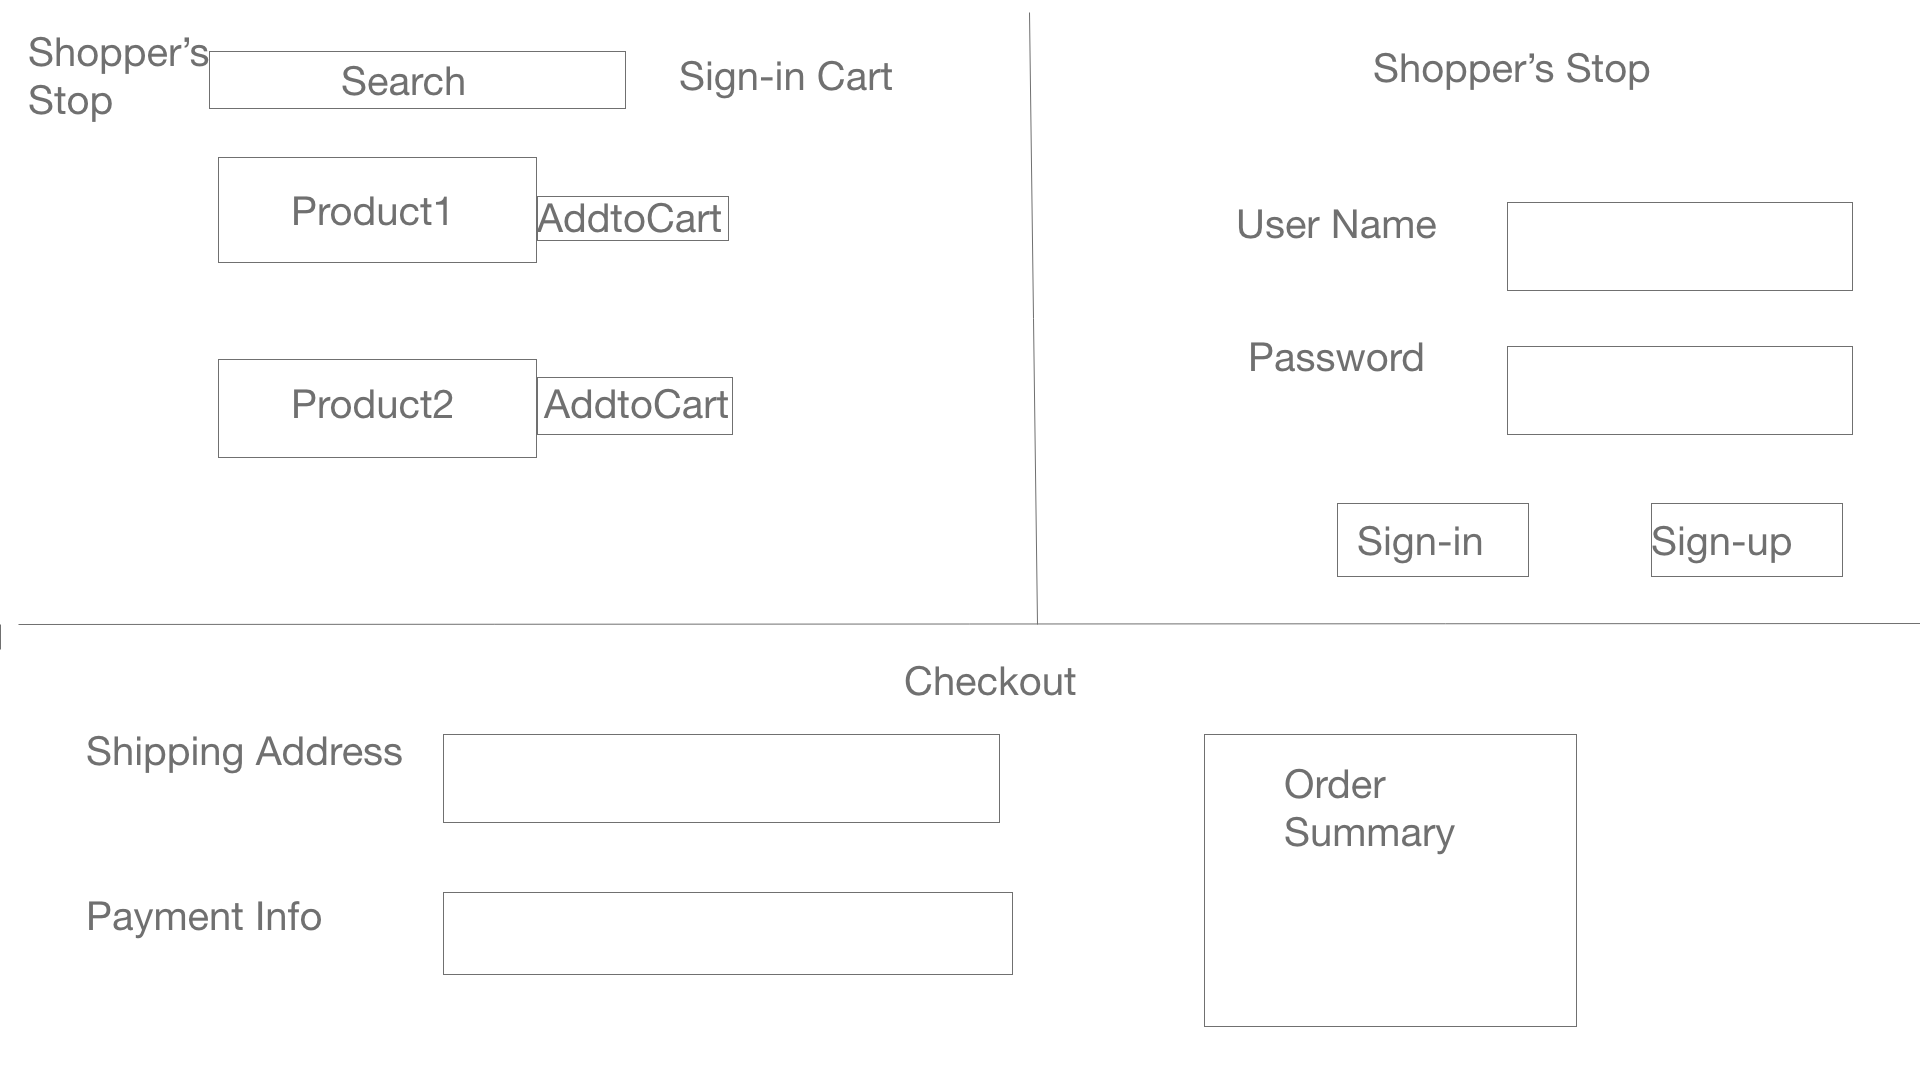
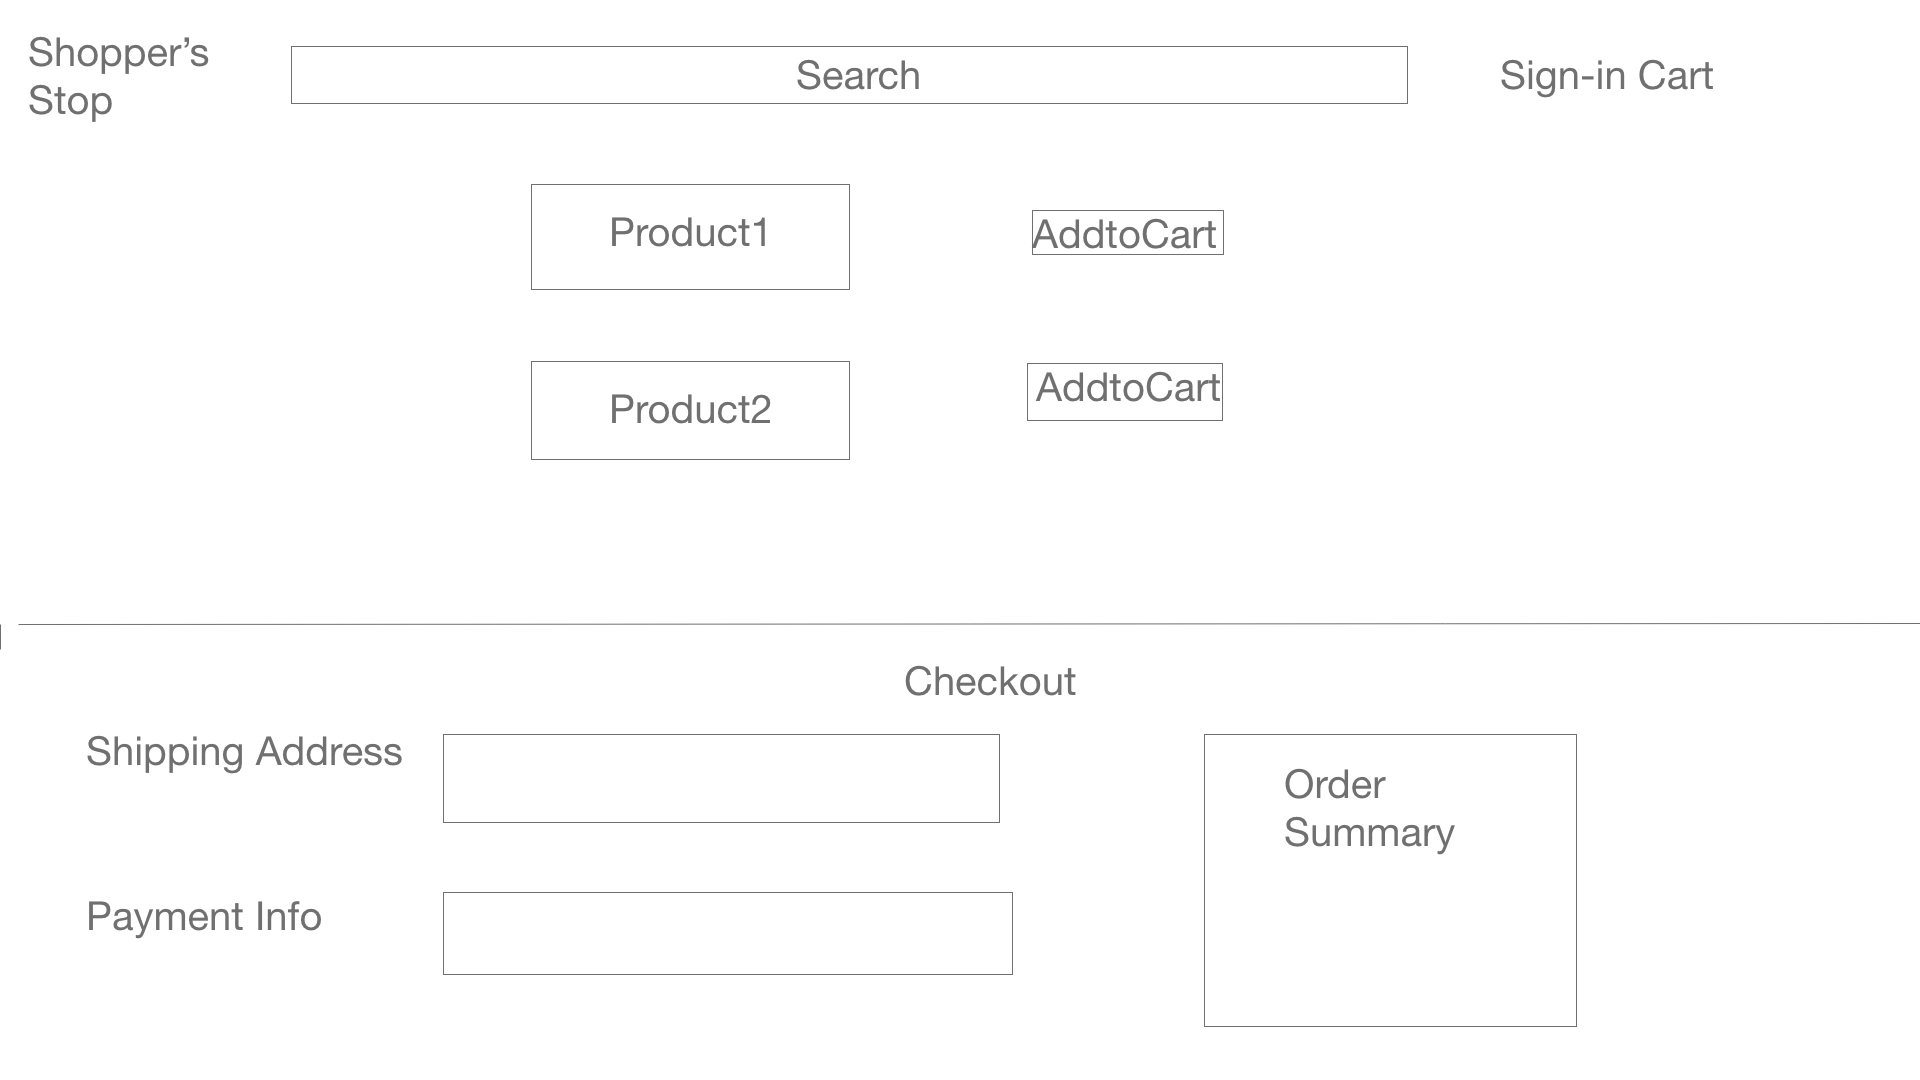
Removed login and registeration page

diff --git a/README.md b/README.md
@@ -9,7 +9,7 @@ An app that enhance online shopping
 
 ## Stateful Component:
 
-Fetching Products,Login and Registeration page.
+Fetching Products
 
 ## Stateless Component:
 Nav bar,
